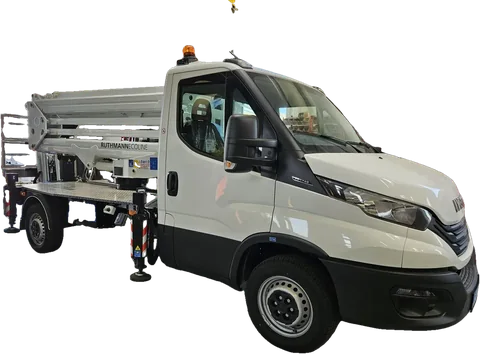
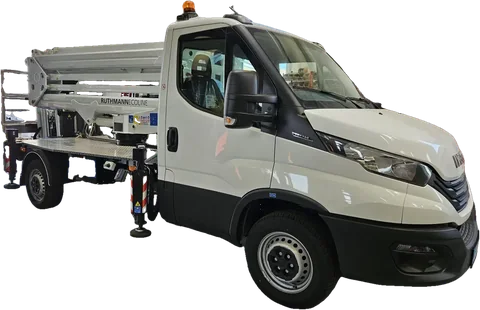
Schulze-Renzel: Freisteller Ruthmann bereinigt, Vorschaubilder aktualisiert
Claude-Session: https://claude.ai/code/session_012sZMePPyeHz8npqXcXtzVZ

diff --git a/schulze-renzel/index.html b/schulze-renzel/index.html
@@ -163,7 +163,7 @@
           </div>
         </div>
       </article><article class="stufe" data-hoehe="20.0" data-name="Ruthmann RS200">
-        <div class="stufe-bild"><img src="assets/img/frei/ruthmann-rs200-480.webp" srcset="assets/img/frei/ruthmann-rs200-480.webp 480w, assets/img/frei/ruthmann-rs200-900.webp 900w" sizes="(min-width:960px) 44vw, 86vw" width="900" height="665" alt="Ruthmann RS200, LKW-Gelenkteleskopbühne, freigestellt" loading="lazy" decoding="async"></div>
+        <div class="stufe-bild"><img src="assets/img/frei/ruthmann-rs200-480.webp" srcset="assets/img/frei/ruthmann-rs200-480.webp 480w, assets/img/frei/ruthmann-rs200-900.webp 900w" sizes="(min-width:960px) 44vw, 86vw" width="900" height="581" alt="Ruthmann RS200, LKW-Gelenkteleskopbühne, freigestellt" loading="lazy" decoding="async"></div>
         <div class="stufe-info">
           <p class="stufe-art">LKW-Gelenkteleskopbühne</p>
           <h3 class="stufe-name">Ruthmann RS200</h3>
@@ -286,7 +286,7 @@
             <p class="treffer-zahlen"><span>Arbeitshöhe <strong>19,90 m</strong></span><span>Seitl. Reichweite <strong>10,40 m bei 230 kg</strong></span><span>Raupenbreite <strong>0,78 m</strong></span></p>
           </div>
         </li><li class="treffer" data-hoehe="20.0" data-tags="lkw" data-preis="220">
-          <div class="treffer-bild buehne"><img src="assets/img/frei/ruthmann-rs200-480.webp" srcset="assets/img/frei/ruthmann-rs200-480.webp 480w, assets/img/frei/ruthmann-rs200-900.webp 900w" sizes="76px" width="900" height="665" alt="" loading="lazy" decoding="async"></div>
+          <div class="treffer-bild buehne"><img src="assets/img/frei/ruthmann-rs200-480.webp" srcset="assets/img/frei/ruthmann-rs200-480.webp 480w, assets/img/frei/ruthmann-rs200-900.webp 900w" sizes="76px" width="900" height="581" alt="" loading="lazy" decoding="async"></div>
           <div>
             <h3 class="h3 treffer-name"><a href="ruthmann-rs200.html">Ruthmann RS200</a></h3>
             <p class="treffer-art">20 m LKW-Gelenkteleskopbühne</p>

diff --git a/schulze-renzel/maschinen.html b/schulze-renzel/maschinen.html
@@ -62,7 +62,7 @@
     <p class="karte-preis"><span class="zahl">250 €</span><small>netto / Tag, inkl. Versicherung</small></p>
   </div><button class="vgl-knopf" type="button" data-vergleich="multitel-mje250" aria-pressed="false" aria-label="Multitel MJE250 vergleichen"><i aria-hidden="true"></i><span>Vergleichen</span></button>
 </article><article class="karte">
-  <div class="karte-bild buehne"><img src="assets/img/frei/ruthmann-rs200-480.webp" srcset="assets/img/frei/ruthmann-rs200-480.webp 480w, assets/img/frei/ruthmann-rs200-900.webp 900w" sizes="(min-width:1000px) 300px, (min-width:640px) 40vw, 80vw" width="900" height="665" alt="Ruthmann-LKW-Bühne beim Baumschnitt an einem Gebäude" loading="lazy" decoding="async"><span class="karte-hoehe">20,00 m</span></div>
+  <div class="karte-bild buehne"><img src="assets/img/frei/ruthmann-rs200-480.webp" srcset="assets/img/frei/ruthmann-rs200-480.webp 480w, assets/img/frei/ruthmann-rs200-900.webp 900w" sizes="(min-width:1000px) 300px, (min-width:640px) 40vw, 80vw" width="900" height="581" alt="Ruthmann-LKW-Bühne beim Baumschnitt an einem Gebäude" loading="lazy" decoding="async"><span class="karte-hoehe">20,00 m</span></div>
   <div class="karte-text">
     <h3 class="h3 karte-name"><a href="ruthmann-rs200.html">Ruthmann RS200</a></h3>
     <p class="karte-art">20 m LKW-Gelenkteleskopbühne</p>

diff --git a/schulze-renzel/multitel-mje250.html b/schulze-renzel/multitel-mje250.html
@@ -81,7 +81,7 @@
 <section class="band"><div class="rahmen">
       <div class="kopfzeile"><h2 class="h2">Mehr aus „Arbeitsbühnen“</h2></div>
       <div class="karten karten--vier"><article class="karte">
-  <div class="karte-bild buehne"><img src="assets/img/frei/ruthmann-rs200-480.webp" srcset="assets/img/frei/ruthmann-rs200-480.webp 480w, assets/img/frei/ruthmann-rs200-900.webp 900w" sizes="(min-width:1000px) 300px, (min-width:640px) 40vw, 80vw" width="900" height="665" alt="Ruthmann-LKW-Bühne beim Baumschnitt an einem Gebäude" loading="lazy" decoding="async"><span class="karte-hoehe">20,00 m</span></div>
+  <div class="karte-bild buehne"><img src="assets/img/frei/ruthmann-rs200-480.webp" srcset="assets/img/frei/ruthmann-rs200-480.webp 480w, assets/img/frei/ruthmann-rs200-900.webp 900w" sizes="(min-width:1000px) 300px, (min-width:640px) 40vw, 80vw" width="900" height="581" alt="Ruthmann-LKW-Bühne beim Baumschnitt an einem Gebäude" loading="lazy" decoding="async"><span class="karte-hoehe">20,00 m</span></div>
   <div class="karte-text">
     <h3 class="h3 karte-name"><a href="ruthmann-rs200.html">Ruthmann RS200</a></h3>
     <p class="karte-art">20 m LKW-Gelenkteleskopbühne</p>

diff --git a/schulze-renzel/cmc-s15.html b/schulze-renzel/cmc-s15.html
@@ -89,7 +89,7 @@
     <p class="karte-preis"><span class="zahl">250 €</span><small>netto / Tag, inkl. Versicherung</small></p>
   </div>
 </article><article class="karte">
-  <div class="karte-bild buehne"><img src="assets/img/frei/ruthmann-rs200-480.webp" srcset="assets/img/frei/ruthmann-rs200-480.webp 480w, assets/img/frei/ruthmann-rs200-900.webp 900w" sizes="(min-width:1000px) 300px, (min-width:640px) 40vw, 80vw" width="900" height="665" alt="Ruthmann-LKW-Bühne beim Baumschnitt an einem Gebäude" loading="lazy" decoding="async"><span class="karte-hoehe">20,00 m</span></div>
+  <div class="karte-bild buehne"><img src="assets/img/frei/ruthmann-rs200-480.webp" srcset="assets/img/frei/ruthmann-rs200-480.webp 480w, assets/img/frei/ruthmann-rs200-900.webp 900w" sizes="(min-width:1000px) 300px, (min-width:640px) 40vw, 80vw" width="900" height="581" alt="Ruthmann-LKW-Bühne beim Baumschnitt an einem Gebäude" loading="lazy" decoding="async"><span class="karte-hoehe">20,00 m</span></div>
   <div class="karte-text">
     <h3 class="h3 karte-name"><a href="ruthmann-rs200.html">Ruthmann RS200</a></h3>
     <p class="karte-art">20 m LKW-Gelenkteleskopbühne</p>

diff --git a/schulze-renzel/cmc-s20.html b/schulze-renzel/cmc-s20.html
@@ -89,7 +89,7 @@
     <p class="karte-preis"><span class="zahl">250 €</span><small>netto / Tag, inkl. Versicherung</small></p>
   </div>
 </article><article class="karte">
-  <div class="karte-bild buehne"><img src="assets/img/frei/ruthmann-rs200-480.webp" srcset="assets/img/frei/ruthmann-rs200-480.webp 480w, assets/img/frei/ruthmann-rs200-900.webp 900w" sizes="(min-width:1000px) 300px, (min-width:640px) 40vw, 80vw" width="900" height="665" alt="Ruthmann-LKW-Bühne beim Baumschnitt an einem Gebäude" loading="lazy" decoding="async"><span class="karte-hoehe">20,00 m</span></div>
+  <div class="karte-bild buehne"><img src="assets/img/frei/ruthmann-rs200-480.webp" srcset="assets/img/frei/ruthmann-rs200-480.webp 480w, assets/img/frei/ruthmann-rs200-900.webp 900w" sizes="(min-width:1000px) 300px, (min-width:640px) 40vw, 80vw" width="900" height="581" alt="Ruthmann-LKW-Bühne beim Baumschnitt an einem Gebäude" loading="lazy" decoding="async"><span class="karte-hoehe">20,00 m</span></div>
   <div class="karte-text">
     <h3 class="h3 karte-name"><a href="ruthmann-rs200.html">Ruthmann RS200</a></h3>
     <p class="karte-art">20 m LKW-Gelenkteleskopbühne</p>

diff --git a/schulze-renzel/genie-gs-3246.html b/schulze-renzel/genie-gs-3246.html
@@ -90,7 +90,7 @@
     <p class="karte-preis"><span class="zahl">250 €</span><small>netto / Tag, inkl. Versicherung</small></p>
   </div>
 </article><article class="karte">
-  <div class="karte-bild buehne"><img src="assets/img/frei/ruthmann-rs200-480.webp" srcset="assets/img/frei/ruthmann-rs200-480.webp 480w, assets/img/frei/ruthmann-rs200-900.webp 900w" sizes="(min-width:1000px) 300px, (min-width:640px) 40vw, 80vw" width="900" height="665" alt="Ruthmann-LKW-Bühne beim Baumschnitt an einem Gebäude" loading="lazy" decoding="async"><span class="karte-hoehe">20,00 m</span></div>
+  <div class="karte-bild buehne"><img src="assets/img/frei/ruthmann-rs200-480.webp" srcset="assets/img/frei/ruthmann-rs200-480.webp 480w, assets/img/frei/ruthmann-rs200-900.webp 900w" sizes="(min-width:1000px) 300px, (min-width:640px) 40vw, 80vw" width="900" height="581" alt="Ruthmann-LKW-Bühne beim Baumschnitt an einem Gebäude" loading="lazy" decoding="async"><span class="karte-hoehe">20,00 m</span></div>
   <div class="karte-text">
     <h3 class="h3 karte-name"><a href="ruthmann-rs200.html">Ruthmann RS200</a></h3>
     <p class="karte-art">20 m LKW-Gelenkteleskopbühne</p>

diff --git a/schulze-renzel/haulotte-star-10.html b/schulze-renzel/haulotte-star-10.html
@@ -90,7 +90,7 @@
     <p class="karte-preis"><span class="zahl">250 €</span><small>netto / Tag, inkl. Versicherung</small></p>
   </div>
 </article><article class="karte">
-  <div class="karte-bild buehne"><img src="assets/img/frei/ruthmann-rs200-480.webp" srcset="assets/img/frei/ruthmann-rs200-480.webp 480w, assets/img/frei/ruthmann-rs200-900.webp 900w" sizes="(min-width:1000px) 300px, (min-width:640px) 40vw, 80vw" width="900" height="665" alt="Ruthmann-LKW-Bühne beim Baumschnitt an einem Gebäude" loading="lazy" decoding="async"><span class="karte-hoehe">20,00 m</span></div>
+  <div class="karte-bild buehne"><img src="assets/img/frei/ruthmann-rs200-480.webp" srcset="assets/img/frei/ruthmann-rs200-480.webp 480w, assets/img/frei/ruthmann-rs200-900.webp 900w" sizes="(min-width:1000px) 300px, (min-width:640px) 40vw, 80vw" width="900" height="581" alt="Ruthmann-LKW-Bühne beim Baumschnitt an einem Gebäude" loading="lazy" decoding="async"><span class="karte-hoehe">20,00 m</span></div>
   <div class="karte-text">
     <h3 class="h3 karte-name"><a href="ruthmann-rs200.html">Ruthmann RS200</a></h3>
     <p class="karte-art">20 m LKW-Gelenkteleskopbühne</p>

diff --git a/schulze-renzel/multitel-mt162ex.html b/schulze-renzel/multitel-mt162ex.html
@@ -89,7 +89,7 @@
     <p class="karte-preis"><span class="zahl">250 €</span><small>netto / Tag, inkl. Versicherung</small></p>
   </div>
 </article><article class="karte">
-  <div class="karte-bild buehne"><img src="assets/img/frei/ruthmann-rs200-480.webp" srcset="assets/img/frei/ruthmann-rs200-480.webp 480w, assets/img/frei/ruthmann-rs200-900.webp 900w" sizes="(min-width:1000px) 300px, (min-width:640px) 40vw, 80vw" width="900" height="665" alt="Ruthmann-LKW-Bühne beim Baumschnitt an einem Gebäude" loading="lazy" decoding="async"><span class="karte-hoehe">20,00 m</span></div>
+  <div class="karte-bild buehne"><img src="assets/img/frei/ruthmann-rs200-480.webp" srcset="assets/img/frei/ruthmann-rs200-480.webp 480w, assets/img/frei/ruthmann-rs200-900.webp 900w" sizes="(min-width:1000px) 300px, (min-width:640px) 40vw, 80vw" width="900" height="581" alt="Ruthmann-LKW-Bühne beim Baumschnitt an einem Gebäude" loading="lazy" decoding="async"><span class="karte-hoehe">20,00 m</span></div>
   <div class="karte-text">
     <h3 class="h3 karte-name"><a href="ruthmann-rs200.html">Ruthmann RS200</a></h3>
     <p class="karte-art">20 m LKW-Gelenkteleskopbühne</p>

diff --git a/schulze-renzel/niftylift-120t.html b/schulze-renzel/niftylift-120t.html
@@ -89,7 +89,7 @@
     <p class="karte-preis"><span class="zahl">250 €</span><small>netto / Tag, inkl. Versicherung</small></p>
   </div>
 </article><article class="karte">
-  <div class="karte-bild buehne"><img src="assets/img/frei/ruthmann-rs200-480.webp" srcset="assets/img/frei/ruthmann-rs200-480.webp 480w, assets/img/frei/ruthmann-rs200-900.webp 900w" sizes="(min-width:1000px) 300px, (min-width:640px) 40vw, 80vw" width="900" height="665" alt="Ruthmann-LKW-Bühne beim Baumschnitt an einem Gebäude" loading="lazy" decoding="async"><span class="karte-hoehe">20,00 m</span></div>
+  <div class="karte-bild buehne"><img src="assets/img/frei/ruthmann-rs200-480.webp" srcset="assets/img/frei/ruthmann-rs200-480.webp 480w, assets/img/frei/ruthmann-rs200-900.webp 900w" sizes="(min-width:1000px) 300px, (min-width:640px) 40vw, 80vw" width="900" height="581" alt="Ruthmann-LKW-Bühne beim Baumschnitt an einem Gebäude" loading="lazy" decoding="async"><span class="karte-hoehe">20,00 m</span></div>
   <div class="karte-text">
     <h3 class="h3 karte-name"><a href="ruthmann-rs200.html">Ruthmann RS200</a></h3>
     <p class="karte-art">20 m LKW-Gelenkteleskopbühne</p>

diff --git a/schulze-renzel/sinoboom-1932me.html b/schulze-renzel/sinoboom-1932me.html
@@ -90,7 +90,7 @@
     <p class="karte-preis"><span class="zahl">250 €</span><small>netto / Tag, inkl. Versicherung</small></p>
   </div>
 </article><article class="karte">
-  <div class="karte-bild buehne"><img src="assets/img/frei/ruthmann-rs200-480.webp" srcset="assets/img/frei/ruthmann-rs200-480.webp 480w, assets/img/frei/ruthmann-rs200-900.webp 900w" sizes="(min-width:1000px) 300px, (min-width:640px) 40vw, 80vw" width="900" height="665" alt="Ruthmann-LKW-Bühne beim Baumschnitt an einem Gebäude" loading="lazy" decoding="async"><span class="karte-hoehe">20,00 m</span></div>
+  <div class="karte-bild buehne"><img src="assets/img/frei/ruthmann-rs200-480.webp" srcset="assets/img/frei/ruthmann-rs200-480.webp 480w, assets/img/frei/ruthmann-rs200-900.webp 900w" sizes="(min-width:1000px) 300px, (min-width:640px) 40vw, 80vw" width="900" height="581" alt="Ruthmann-LKW-Bühne beim Baumschnitt an einem Gebäude" loading="lazy" decoding="async"><span class="karte-hoehe">20,00 m</span></div>
   <div class="karte-text">
     <h3 class="h3 karte-name"><a href="ruthmann-rs200.html">Ruthmann RS200</a></h3>
     <p class="karte-art">20 m LKW-Gelenkteleskopbühne</p>

diff --git a/schulze-renzel/ruthmann-rs200.html b/schulze-renzel/ruthmann-rs200.html
@@ -51,7 +51,7 @@
     </header>
     <div class="detail">
       <div>
-        <div class="buehne detail-buehne"><img src="assets/img/frei/ruthmann-rs200-480.webp" srcset="assets/img/frei/ruthmann-rs200-480.webp 480w, assets/img/frei/ruthmann-rs200-900.webp 900w" sizes="(min-width:1000px) 55vw, 92vw" width="900" height="665" alt="Ruthmann RS200, freigestellt" fetchpriority="high" decoding="async"></div>
+        <div class="buehne detail-buehne"><img src="assets/img/frei/ruthmann-rs200-480.webp" srcset="assets/img/frei/ruthmann-rs200-480.webp 480w, assets/img/frei/ruthmann-rs200-900.webp 900w" sizes="(min-width:1000px) 55vw, 92vw" width="900" height="581" alt="Ruthmann RS200, freigestellt" fetchpriority="high" decoding="async"></div>
         <div style="margin-top:12px">
           <dl class="fakten"><div><dt>Arbeitshöhe</dt><dd>20,00 m</dd></div><div><dt>Seitl. Reichweite</dt><dd>10,50 m bei 120 kg</dd></div><div><dt>Korblast</dt><dd>250 kg</dd></div></dl>
           <section class="abschnitt"><h2 class="h3">Fotos</h2><div class="galerie" data-galerie>
